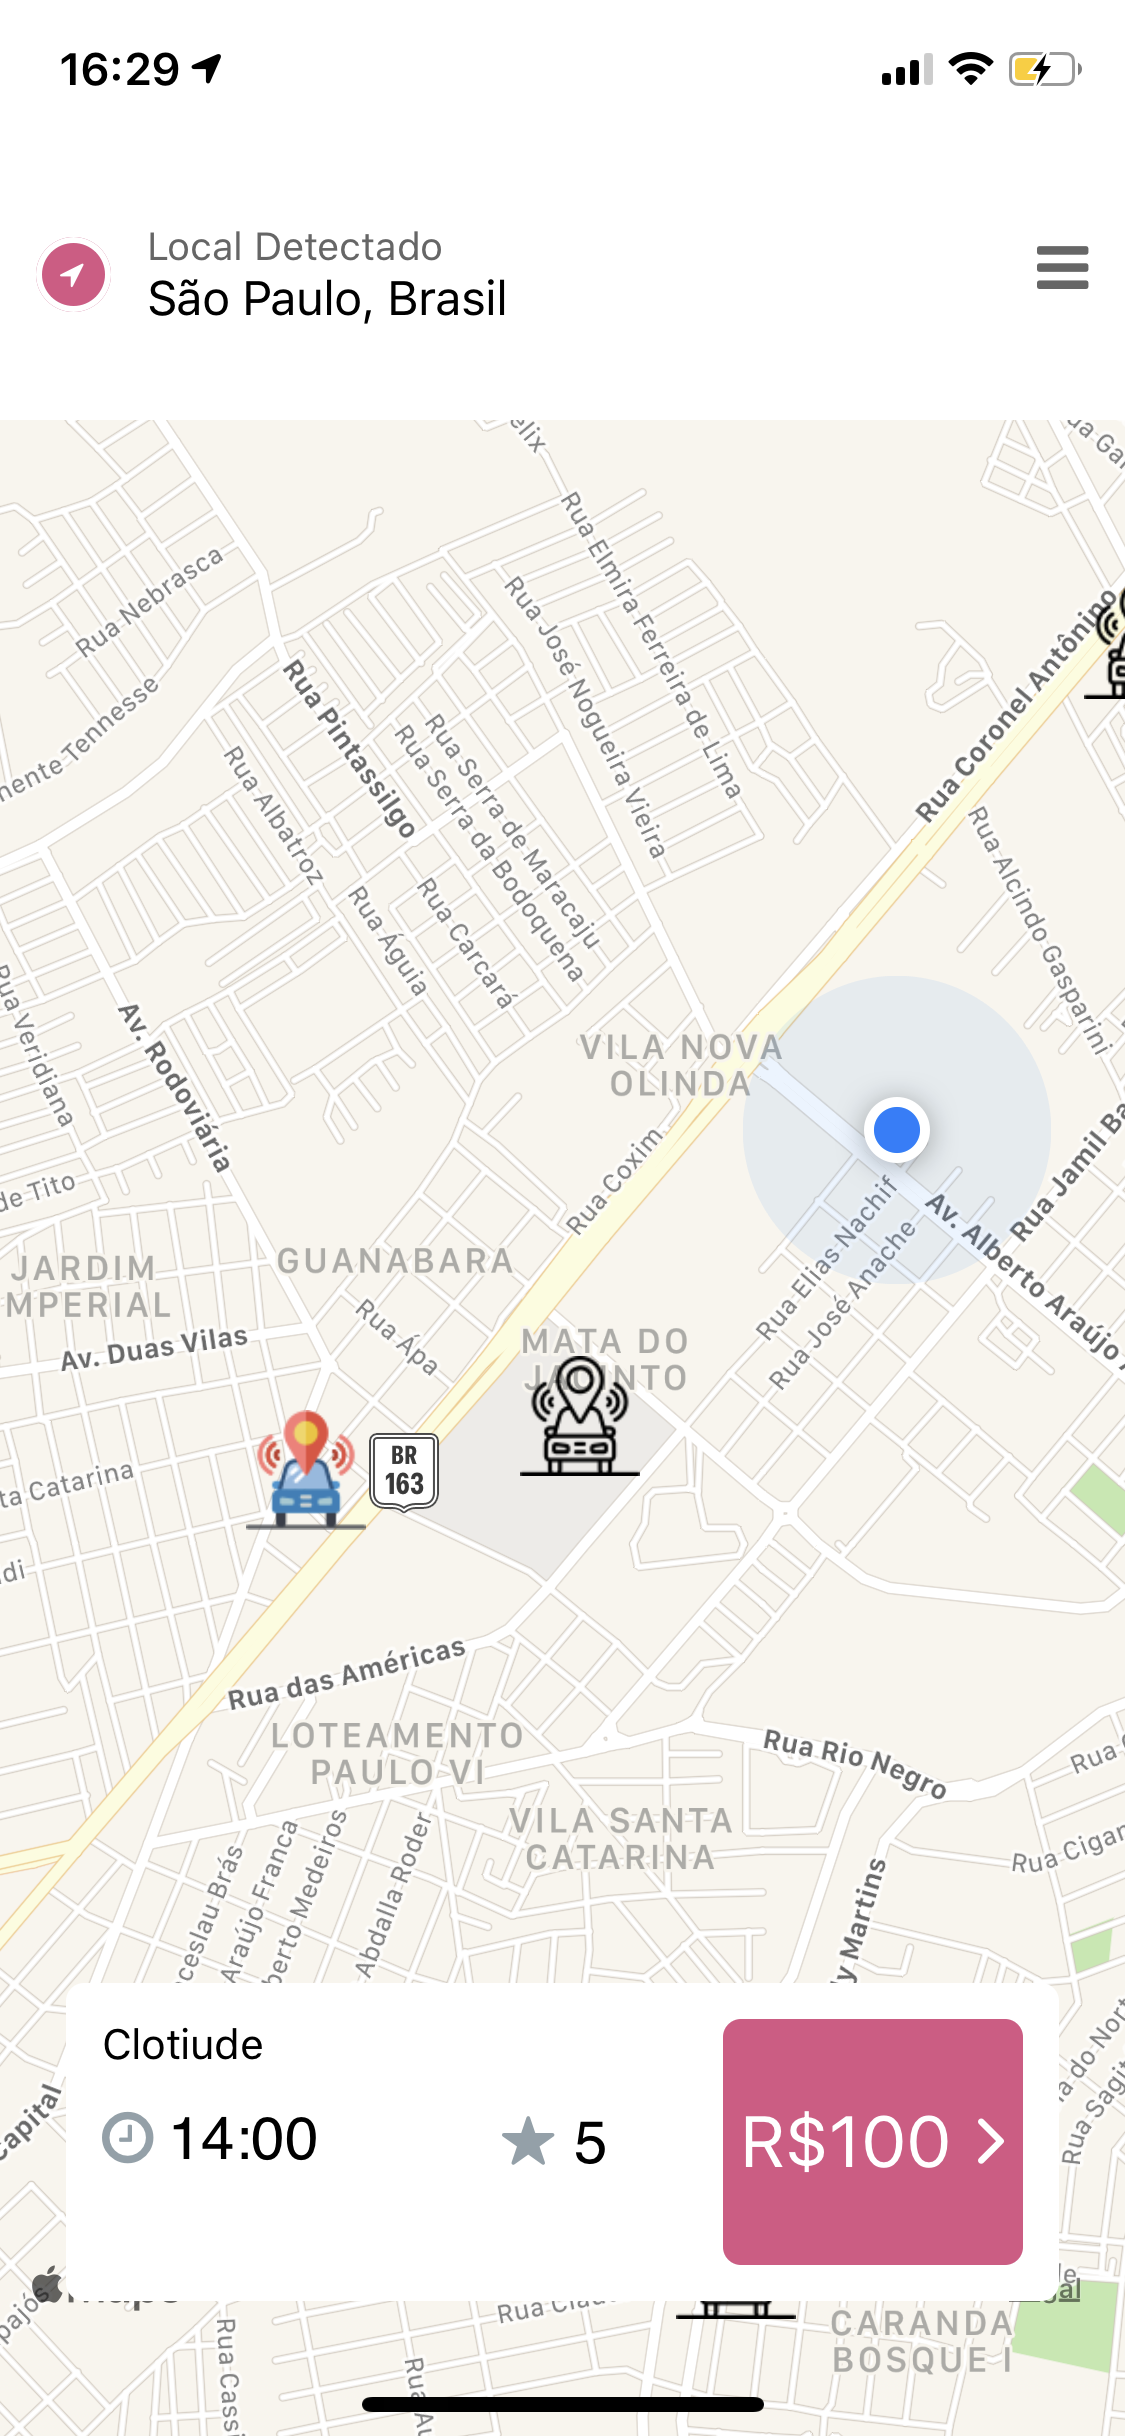
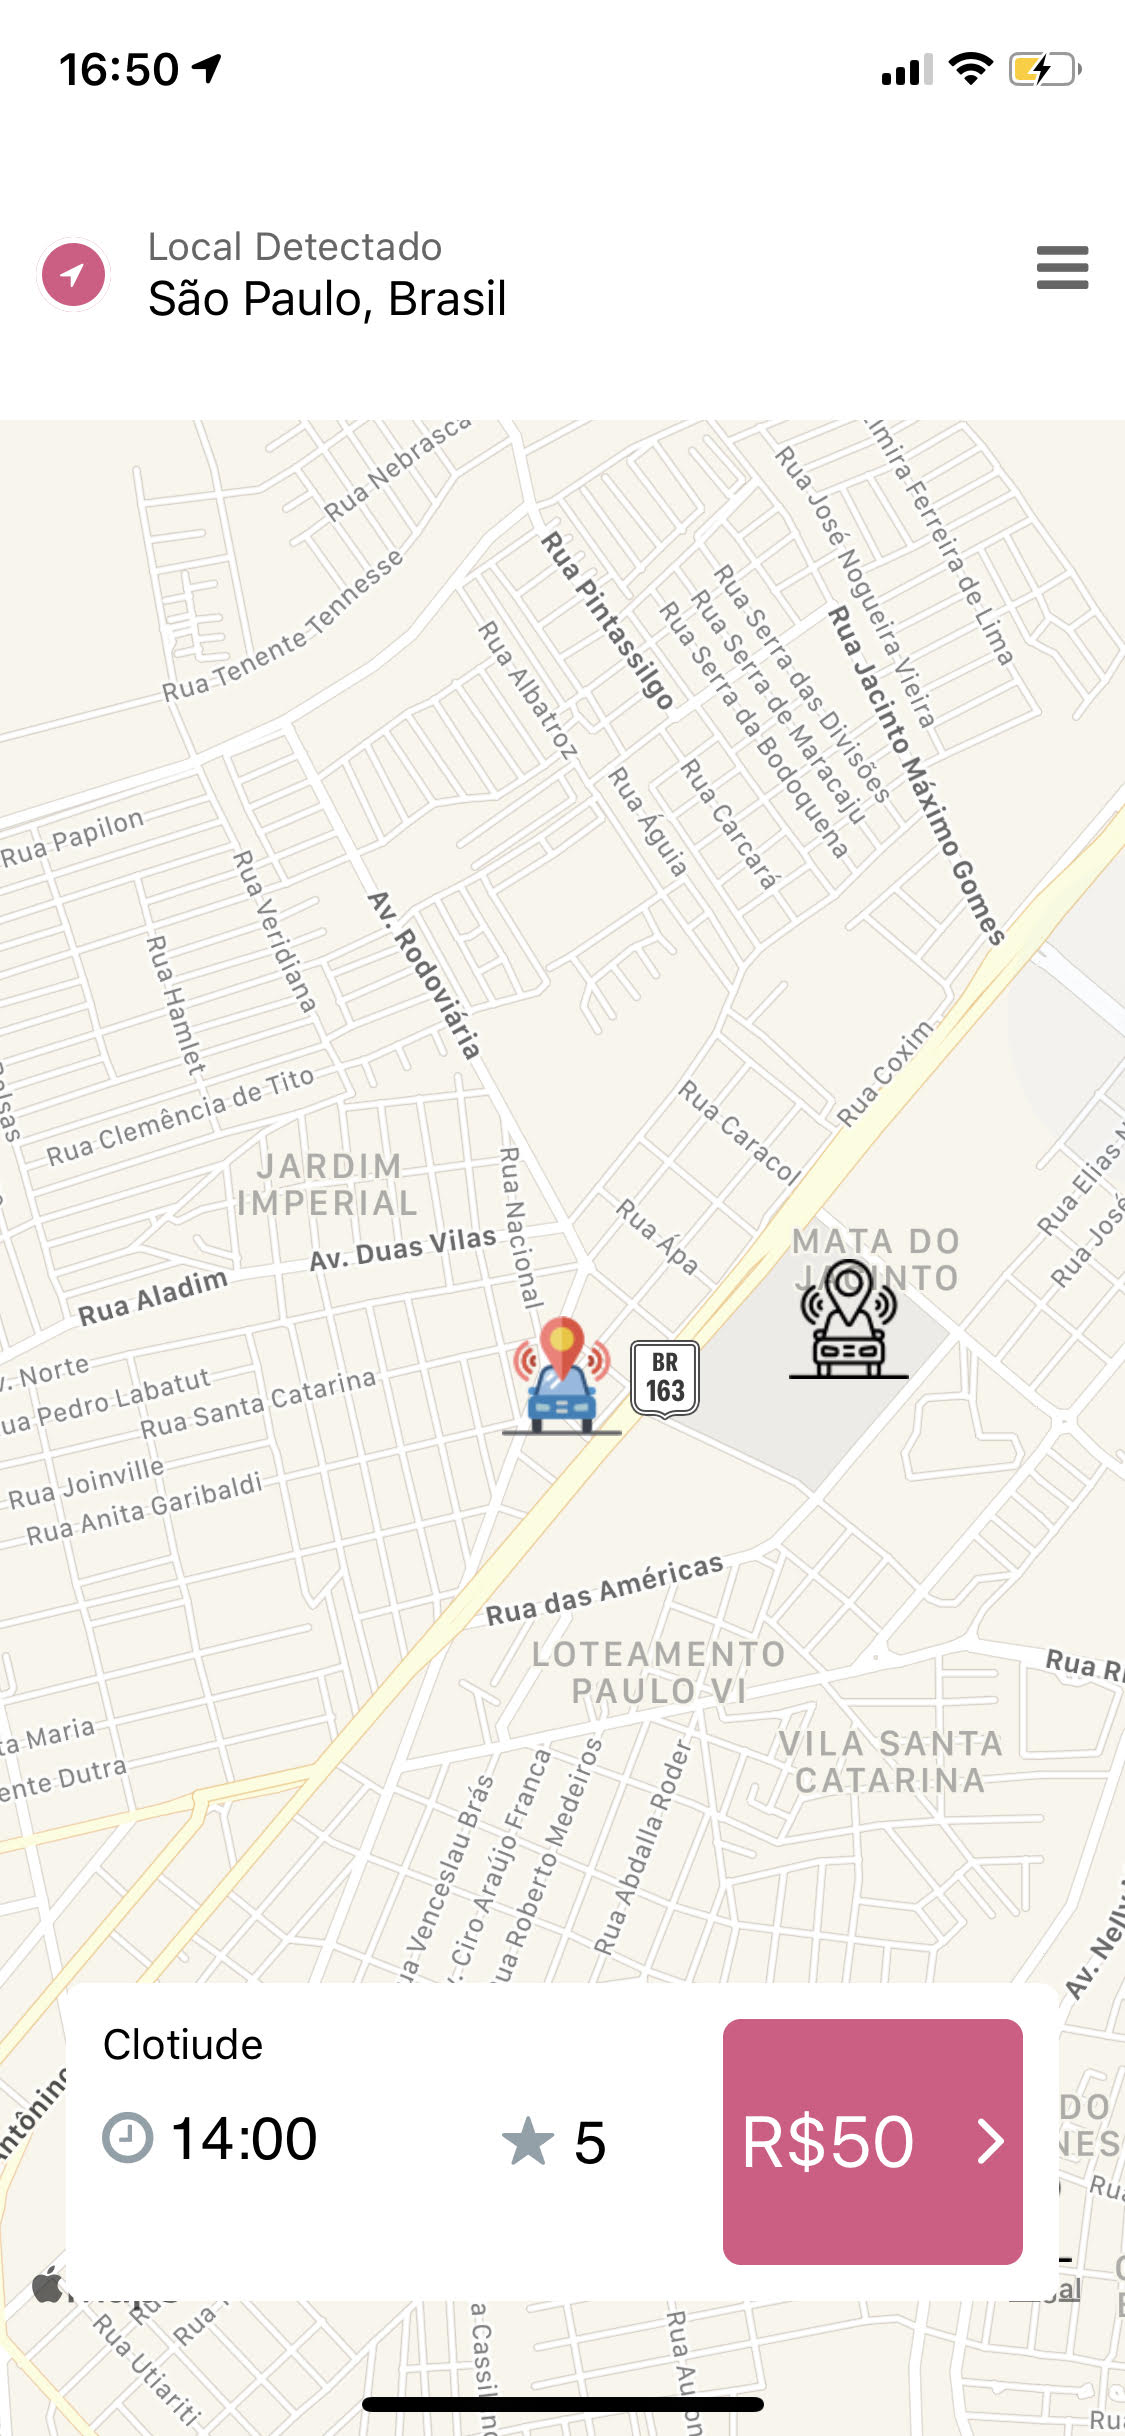
screenshot da tela iniciando

diff --git a/src/components/Home/Parking.js b/src/components/Home/Parking.js
@@ -22,7 +22,7 @@ const Parking = (props) => {
                 </View>
                 <TouchableOpacity style={styles.buy} onPress={() => activeModal(true, data)}  >
                     <View style={{ flex: 1, justifyContent: "center" }}>
-                        <Text style={{ fontSize: 24, color: "white" }}>R${data.price * 2}</Text>
+                        <Text style={{ fontSize: 24, color: "white" }}>R${data.price}</Text>
                     </View>
                     <View style={{ justifyContent: "center", alignItems: "center" }}>
                         <Text style={{ fontSize: 24, color: "white" }}> <Ionicons name="ios-arrow-forward" size={23} color="#fff" /></Text>
